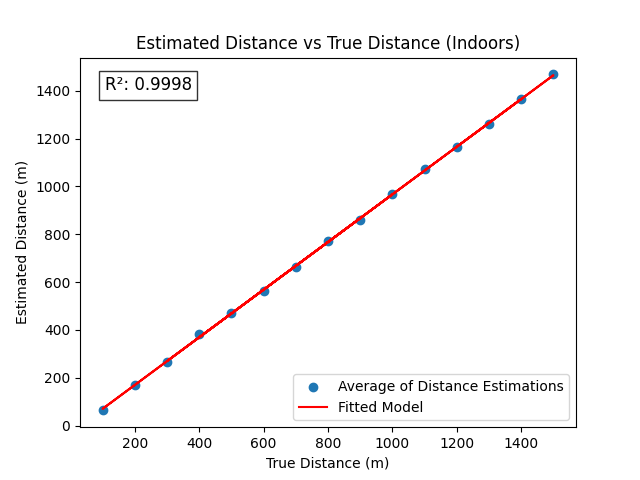
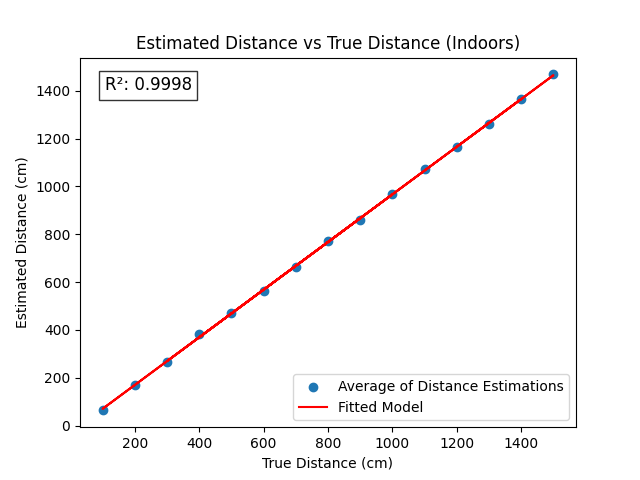
made LR models for True Distance vs RMSE, added figs, documented model scripts

Changed region(s): [[0.0, 0.3125, 0.0625, 0.6875], [0.4062, 0.9375, 0.625, 1.0]]

diff --git a/data/model_accuracy.py b/data/model_accuracy.py
@@ -1,12 +1,22 @@
+"""
+Script to perform linear regression (and plot the line) on RMSE (accuracy/error) vs True Distance
+Predict what the RMSE is based on the True Distance
+"""
+
 import os
 import numpy as np
 import pandas as pd
 import matplotlib.pyplot as plt
 from sklearn.linear_model import LinearRegression
-from sklearn.metrics import r2_score
+from sklearn.metrics import mean_squared_error, r2_score
+
+# Compute RMSE 
+def rmse(true_distance, estimated_distances):
+    return np.sqrt(mean_squared_error([true_distance]*len(estimated_distances), estimated_distances))
+
 
 def process_files(input_directory):
-    accuracy_data = []
+    rmse_data = []
 
     for filename in os.listdir(input_directory):
         if filename.startswith("D_cm_") and filename.endswith(".txt"):
@@ -14,23 +24,21 @@ def process_files(input_directory):
             true_distance_str = filename.replace("D_cm_", "").replace("m.txt", "")
             true_distance = float(true_distance_str)*100
             
-            file_path = os.path.join(input_directory, filename)
-            
+            file_path = os.path.join(input_directory, filename) 
             estimated_distances = np.loadtxt(file_path)
             
-            average = np.mean(estimated_distances)
-            
             # Store the true distance and its corresponding RMSE
-            accuracy_data.append((true_distance, average))
+            rmse_data.append((true_distance, rmse(true_distance, estimated_distances)))      
+            
     
-    return pd.DataFrame(accuracy_data, columns=["True Distance", "Estimated Distance"])
+    return pd.DataFrame(rmse_data, columns=["True Distance", "RMSE"])
 
 def model_accuracy_vs_distance(input_directory):
    df = process_files(input_directory)
    X = df["True Distance"].values.reshape(-1, 1)
-   y = df["Estimated Distance"].values
+   y = df["RMSE"].values
 
-   # Fit a linear regression model for simplicity
+   # Fit a linear regression model
    model = LinearRegression()
    model.fit(X, y)
 
@@ -41,20 +49,21 @@ def model_accuracy_vs_distance(input_directory):
    r_squared = r2_score(y, predicted_accuracy)
 
    # Plot the results
-   plt.scatter(df["True Distance"], df["Estimated Distance"], label="Average of Distance Estimations")
+   plt.scatter(df["True Distance"], df["RMSE"], label="RMSE")
    plt.plot(df["True Distance"], predicted_accuracy, color="red", label="Fitted Model")
-   plt.xlabel("True Distance (m)")
-   plt.ylabel("Estimated Distance (m)")
-   plt.title("Estimated Distance vs True Distance (Outdoors)")
+   plt.xlabel("True Distance (cm)")
+   plt.ylabel("RMSE")
+   plt.title("RMSE vs True Distance (Indoors)")
    plt.legend()
 
    # Add text box with R^2 and RMSE
    stats_text = f'R²: {r_squared:.4f}'
    plt.gca().text(0.05, 0.95, stats_text, transform=plt.gca().transAxes, fontsize=12, verticalalignment='top', bbox=dict(facecolor='white', alpha=0.8))
 
-   plt.savefig("outdoor_lr_estimated_vs_true.png")
+   plt.savefig("indoor_lr_rmse_vs_dist.png")
 
 if __name__ == "__main__":
-    input_directory = "logs/10_25_2024/D_cm/"
+    # input_directory = "logs/10_25_2024/D_cm/"
+    input_directory = "logs/10_17_2024/D_cm/"
     model_accuracy_vs_distance(input_directory)
 

diff --git a/data/model_distance.py b/data/model_distance.py
@@ -1,0 +1,65 @@
+"""
+Python script to perform Linear Regression on True Distance vs Estimated Distance
+Predict what the estimated distance is based on the true distance
+"""
+
+import os
+import numpy as np
+import pandas as pd
+import matplotlib.pyplot as plt
+from sklearn.linear_model import LinearRegression
+from sklearn.metrics import r2_score
+
+def process_files(input_directory):
+    accuracy_data = []
+
+    for filename in os.listdir(input_directory):
+        if filename.startswith("D_cm_") and filename.endswith(".txt"):
+            # Extract true distance from filename (e.g., "D_cm_1m.txt")
+            true_distance_str = filename.replace("D_cm_", "").replace("m.txt", "")
+            true_distance = float(true_distance_str)*100
+            
+            # Open file with raw measurements
+            file_path = os.path.join(input_directory, filename)
+            
+            # Compute average estimated distance for the given true distance we're at
+            estimated_distances = np.loadtxt(file_path) 
+            average = np.mean(estimated_distances) 
+            accuracy_data.append((true_distance, average))
+    
+    return pd.DataFrame(accuracy_data, columns=["True Distance", "Estimated Distance"])
+
+def model_accuracy_vs_distance(input_directory):
+   df = process_files(input_directory)
+   X = df["True Distance"].values.reshape(-1, 1)
+   y = df["Estimated Distance"].values
+
+   # Fit a linear regression model
+   model = LinearRegression()
+   model.fit(X, y)
+
+   # Predict the accuracy across distances
+   predicted_accuracy = model.predict(X)
+
+   # R^2
+   r_squared = r2_score(y, predicted_accuracy)
+
+   # Plot the results
+   plt.scatter(df["True Distance"], df["Estimated Distance"], label="Average of Distance Estimations")
+   plt.plot(df["True Distance"], predicted_accuracy, color="red", label="Fitted Model")
+   plt.xlabel("True Distance (cm)")
+   plt.ylabel("Estimated Distance (cm)")
+   plt.title("Estimated Distance vs True Distance (Indoors)")
+   plt.legend()
+
+   # Add text box with R^2 and RMSE
+   stats_text = f'R²: {r_squared:.4f}'
+   plt.gca().text(0.05, 0.95, stats_text, transform=plt.gca().transAxes, fontsize=12, verticalalignment='top', bbox=dict(facecolor='white', alpha=0.8))
+
+   plt.savefig("indoor_lr_estimated_vs_true.png")
+
+if __name__ == "__main__":
+    # input_directory = "logs/10_25_2024/D_cm/"
+    input_directory = "logs/10_17_2024/D_cm/"
+    model_accuracy_vs_distance(input_directory)
+
